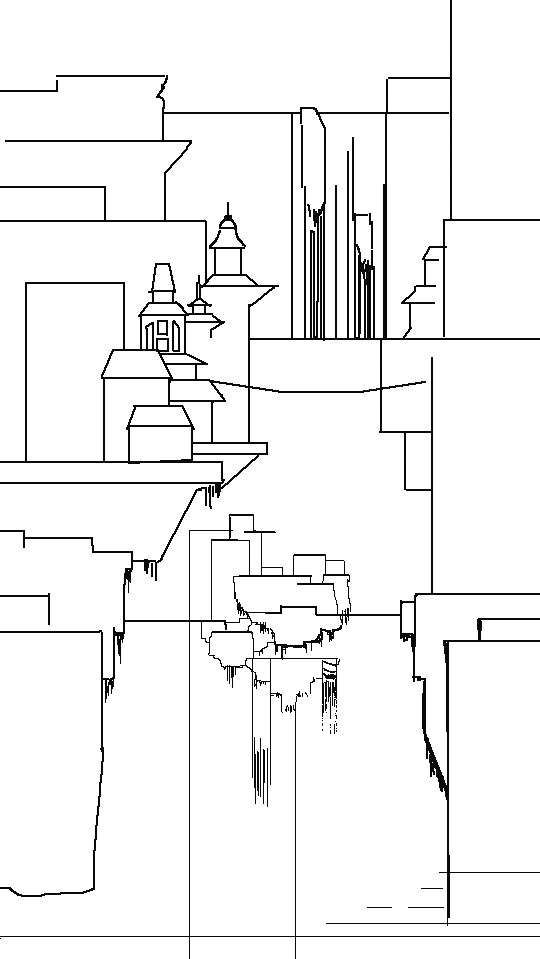
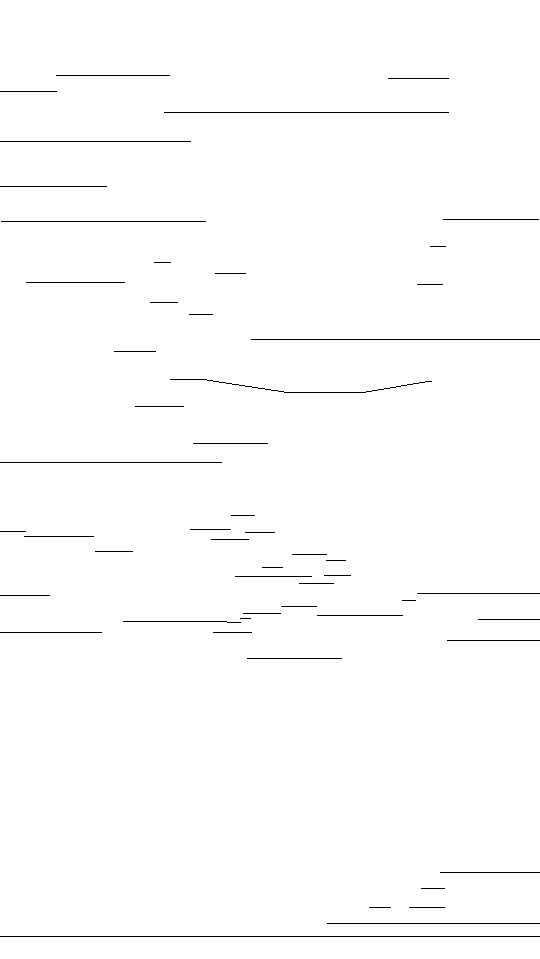
collision-map-fixes
Formula for collision needs to be changed to check for a range but otherwise collision map is functioning correctly. Temporarily changed window dimensions to see the effects of collision better;

diff --git a/Player.py b/Player.py
@@ -7,7 +7,7 @@ class Player():
         self.window = window
         self.image = pygame.image.load('images/goblin_R1.png')
         self.rect = self.image.get_rect()
-        self.rect.center = (50, WINDOW_HEIGHT + 50)  # set player to starting position
+        #self.rect.center = (20, WINDOW_HEIGHT + 100)  # set player to starting position
         self.height = self.rect.height
         self.halfHeight = self.height / 2
         self.width = self.rect.width
@@ -20,22 +20,25 @@ class Player():
         self.state = WALKLEFT
 
         #VEC(X,Y)
-        self.pos = VEC(WINDOW_WIDTH/2, WINDOW_HEIGHT/2)
+        self.pos = VEC(240, WINDOW_HEIGHT/2)
         self.vel = VEC(0,0)
         self.acc = VEC(0,0)
 
         # instantiate collision platforms
-        self.collision_map = pygame.Surface((540, 960))
-        self.collision_map.blit(pygame.image.load(IMAGE_COLLISION_MAP), (0, 0))
-        self.ground = pygame.draw.line(self.collision_map, BLACK, (0, WINDOW_HEIGHT), (WINDOW_WIDTH, WINDOW_HEIGHT))
+        #self.collision_map = pygame.Surface((540, 960))
+        #self.collision_map.blit(pygame.image.load(IMAGE_COLLISION_MAP), (0, 0))
+        print("loading collision_map")
+        self.collision_map = pygame.image.load(IMAGE_COLLISION_MAP)
+        print("loaded collision_map")
+        #self.ground = pygame.draw.line(self.collision_map, (0, 0, 0, 255), (0, WINDOW_HEIGHT), (WINDOW_WIDTH, WINDOW_HEIGHT))
 
         self.collide_DOWN = False
         self.collide_RIGHT = False
         self.collide_LEFT = False
 
-        self.color_DOWN = WHITE
-        self.color_LEFT = WHITE
-        self.color_RIGHT = WHITE
+        self.color_DOWN = TEAL
+        self.color_LEFT = TEAL
+        self.color_RIGHT = TEAL
 
 
     def reset(self):
@@ -44,50 +47,46 @@ class Player():
 
 
     def update(self):
-        self.acc = VEC(0, PLAYER_GRAVITY)  # calculate acceleration
+        self.collide_DOWN = False
 
        # motion
         self.acc.x += self.vel.x * PLAYER_FRICTION  # apply friction
         self.vel += self.acc  # calculate velocity
         self.pos += self.vel + (0.5 * self.acc)  # calculate position
 
-        '''#do not pass sides of screen
-        if self.pos.x > WINDOW_WIDTH:
-            self.pos.x = WINDOW_WIDTH
-        if self.pos.x < 0:
-            self.pos.x = 0'''
-
-        '''#do not fall off screen
-        if self.pos.y > WINDOW_HEIGHT - self.height:
-            self.pos.y = WINDOW_HEIGHT - self.height + 1
-            self.vel.y = 0
-            self.state = WALKLEFT'''
-
         # determine collision based on pixel color from collision map
-        if ((self.pos.y + 1) < WINDOW_HEIGHT):
-            self.color_DOWN = self.collision_map.get_at((int(self.pos.x), int(self.pos.y + 1)))
-            print('color down value', self.color_DOWN)
+        #if ((self.pos.y + 1) < WINDOW_HEIGHT):
+        self.color_DOWN = self.collision_map.get_at((int(self.pos.x), int(self.pos.y + 1 + self.height)))
+        #print('color down value', self.color_DOWN)
 
-        if ((self.pos.x +1) < WINDOW_WIDTH) and (self.pos.y < WINDOW_HEIGHT):
-            self.color_RIGHT = self.collision_map.get_at((int(self.pos.x + 1), int(self.pos.y)))
-            print('color right value', self.color_RIGHT)
-        if ((self.pos.x -1) > 0) and (self.pos.y < WINDOW_HEIGHT):
-            self.color_LEFT = self.collision_map.get_at((int(self.pos.x - 1), int(self.pos.y)))
-            print('color left value', self.color_LEFT)
+        self.color_RIGHT = self.collision_map.get_at((int(self.pos.x + 1), int(self.pos.y + self.height)))
+        #print('color right value', self.color_RIGHT)
+
+        self.color_LEFT = self.collision_map.get_at((int(self.pos.x - 1), int(self.pos.y + self.height)))
+        #print('color left value', self.color_LEFT)
 
         if self.color_DOWN == HIT:
             self.collide_DOWN = True
-            print("Collision beneath")
+            #print("x pos: ", self.pos.x)
+            #print("y pos: ", self.pos.y)
+            #print("Collision beneath")
         if self.color_RIGHT == HIT:
             self.collide_RIGHT = True
-            print("Collision to the right")
+            #print("x pos: ", self.pos.x)
+            #print("y pos: ", self.pos.y)
+            #print("Collision to the right")
         if self.color_LEFT == HIT:
             self.collide_LEFT = True
-            print("Collision to the left")
+            #print("x pos: ", self.pos.x)
+            #print("y pos: ", self.pos.y)
+            #print("Collision to the left")
 
         if self.collide_DOWN:
-            self.pos.y = self.pos.y
+            self.pos.y = self.pos.y - 1
             self.vel.y = 0
+
+        else:
+            self.acc = VEC(0,PLAYER_GRAVITY)
 
         '''self.Rect = pygame.Rect(self.pos.x, self.pos.y, self.height, self.width)
         return self.Rect'''
@@ -98,13 +97,11 @@ class Player():
 
         if keyPressedList[pygame.K_LEFT]:
             print('Pressing Left')
-            if not self.collide_LEFT:
-                self.acc.x = -PLAYER_ACC
+            self.acc.x = -PLAYER_ACC
             self.state = WALKLEFT
         if keyPressedList[pygame.K_RIGHT]:
             print('Pressing Right')
-            if not self.collide_RIGHT:
-                self.acc.x = PLAYER_ACC
+            self.acc.x = PLAYER_ACC
             self.state = WALKRIGHT
 
         for event in eventsList:

diff --git a/ScenePlay.py b/ScenePlay.py
@@ -28,7 +28,8 @@ class ScenePlay(SceneManager.Scene):
         # Save window and sceneKey in instance variables
         self.window = window
         self.sceneKey = sceneKey
-        self.playBackground = pygwidgets.Image(self.window, (0, -320), IMAGE_LEVEL_1)
+        self.playBackground = pygwidgets.Image(self.window, (0, 0), IMAGE_LEVEL_1)
+        #y -320
 
         #instantiate objects
         self.oVillagerMgr = VillagerMgr(self.window)
